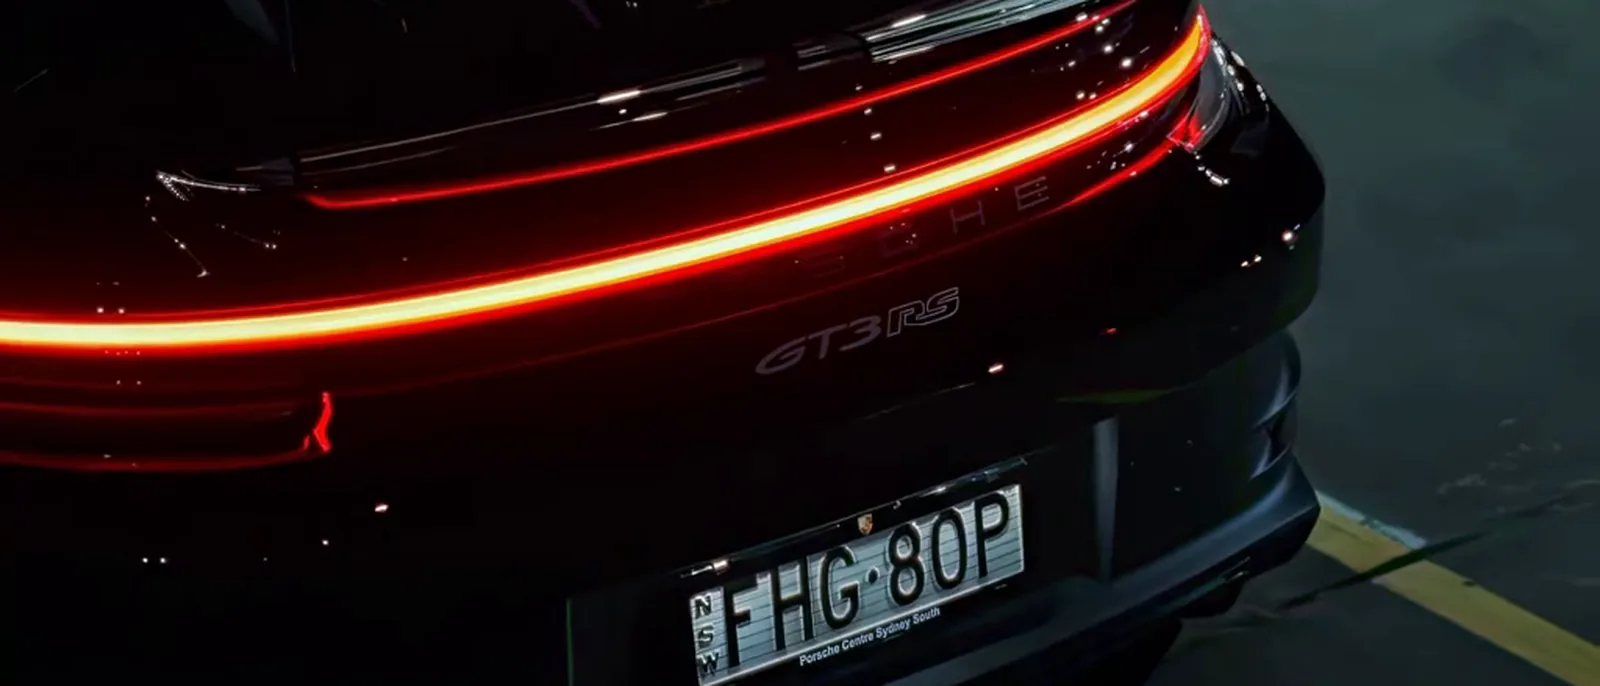
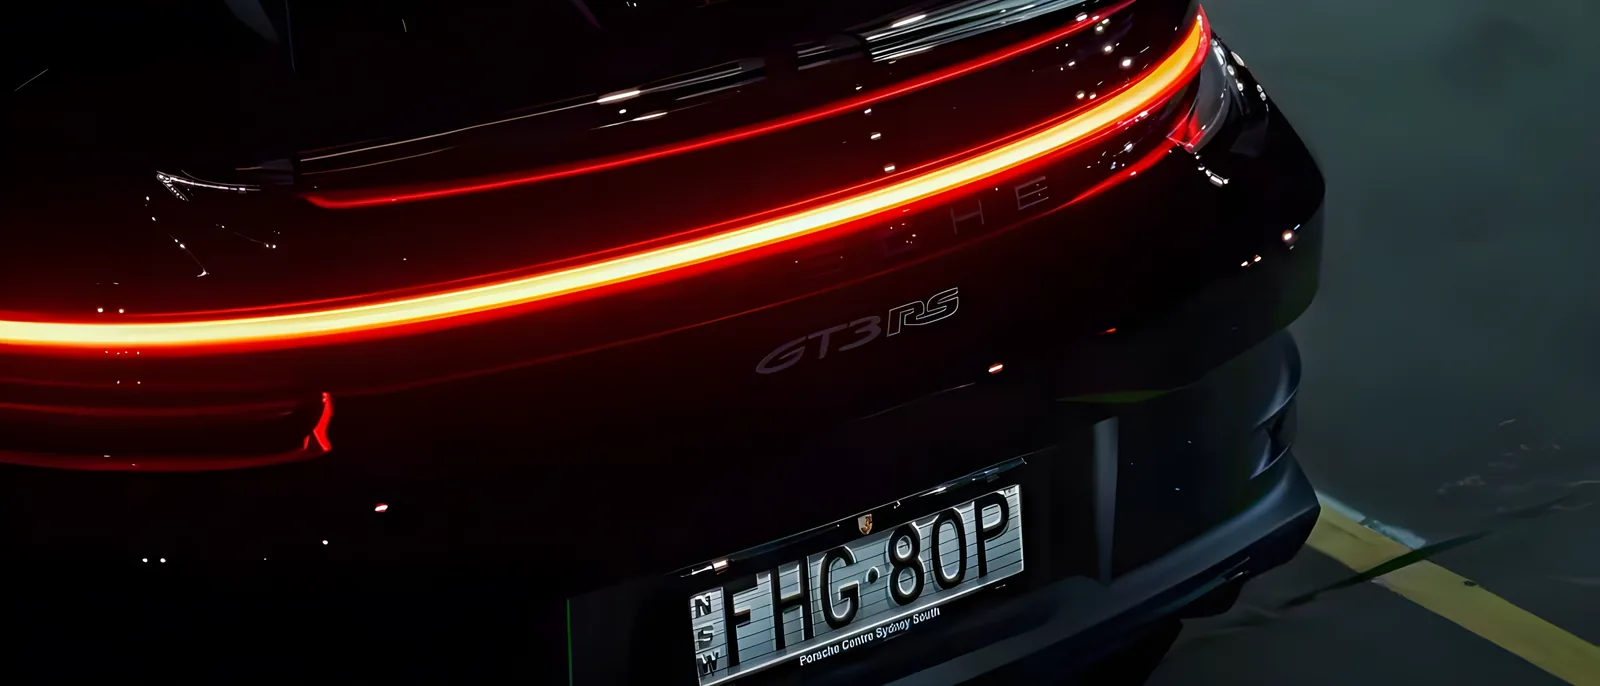
SimNow: sharper card image (Real-ESRGAN 4x from the clip still)
Claude-Session: https://claude.ai/code/session_01Mn11HQkFwBeYmhKDyXM4vn

diff --git a/sites/simnow/README.md b/sites/simnow/README.md
@@ -44,7 +44,7 @@ Add `?skip` to jump past the intro, `?debug` to expose `window.__simnow`.
 | `render/svj_studio.py` | Car set-up shared by the renders (materials, SVJ wing and splitter); also an older studio scene |
 | `render/post.py` | The grade (contrast, bloom on the lamps, vignette) |
 | `render/clean_clip.py` | Prepares a TikTok clip: cuts the end card, paints out the watermark, turns it upright, encodes MP4 + WebM |
-| `render/upscale.py` | Real-ESRGAN 4x photo upscaler in plain numpy (used for the card and social images) |
+| `render/upscale.py` | Real-ESRGAN 4x photo upscaler in plain numpy (used for `assets/drive/card.webp`) |
 
 ## The tail-lights intro
 
